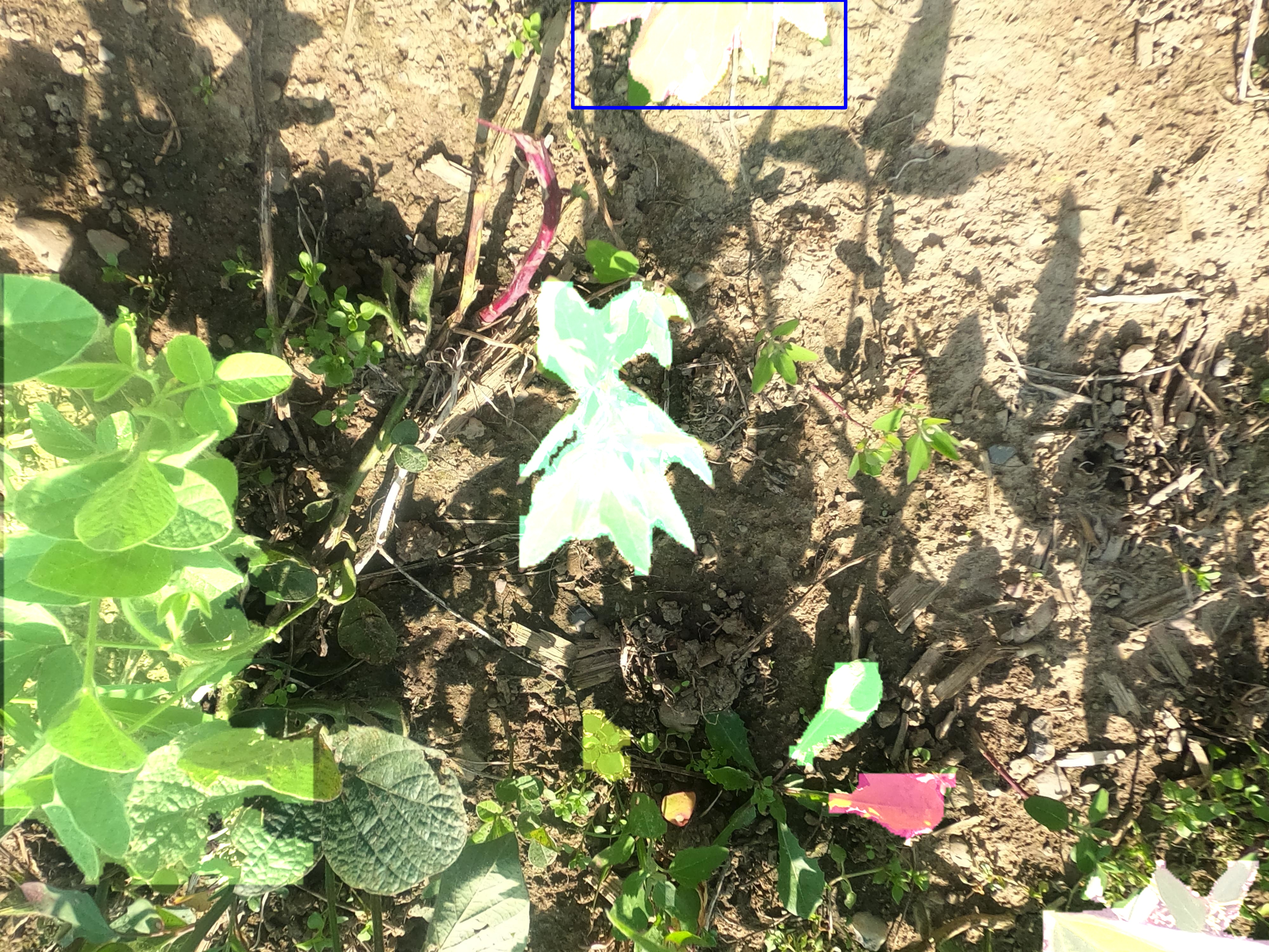
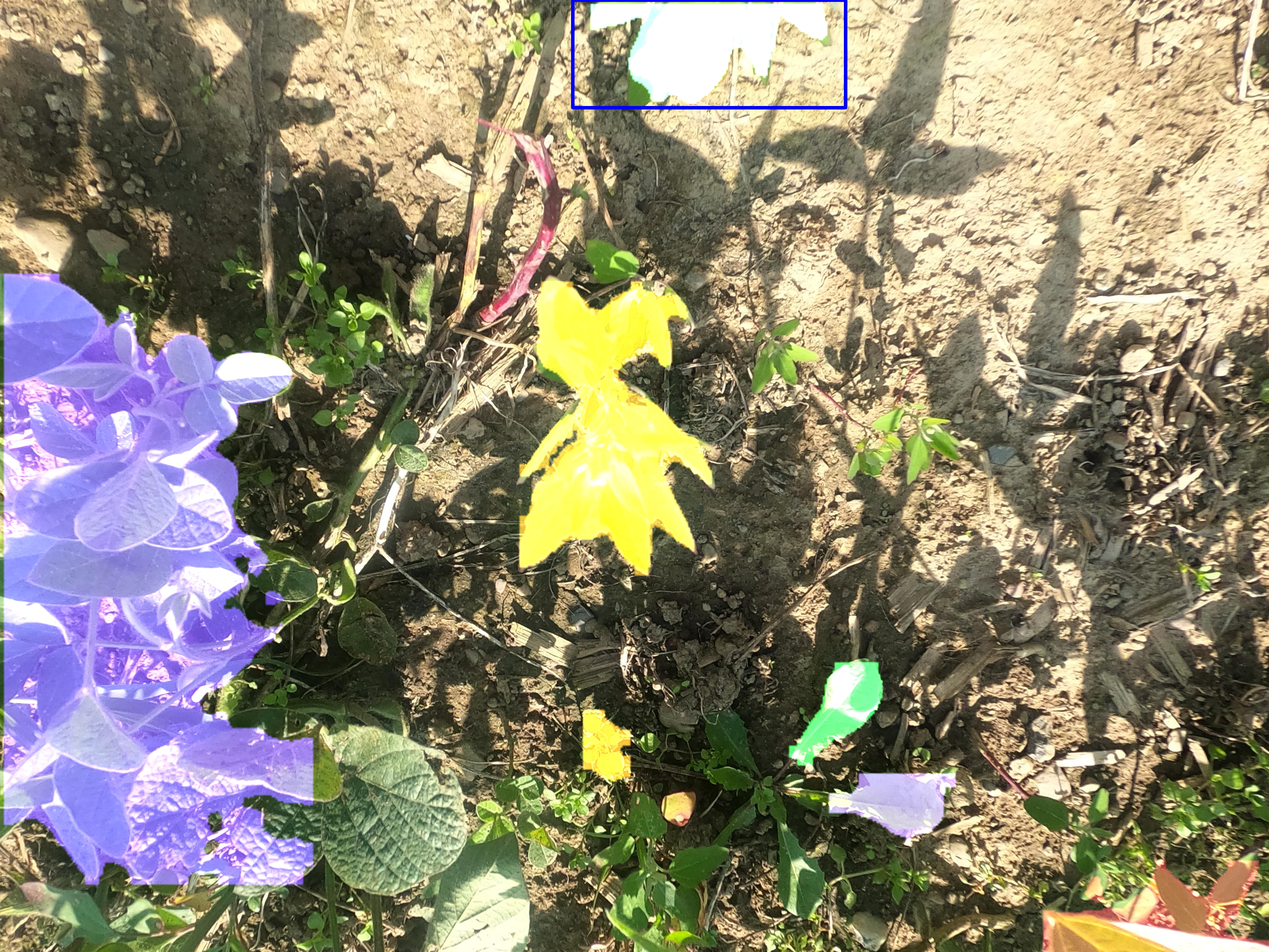
Update README.md

diff --git a/client-gui/src/app/_store/data.tsx b/client-gui/src/app/_store/data.tsx
@@ -3,12 +3,13 @@ import { create } from "zustand";
 
 
 
-// We do not need this; this is for local storage; 
-interface ImageData {
-    regions: number[][][];        
-    boxes: number[][][];          
-    classification: string;
-}
+// // We do not need this; this is for local storage; 
+// interface ImageData {
+//     regions: number[][][];        
+//     boxes: number[][][];          
+//     classification: string;
+// }
+
 
 interface DataStore {
     // imgMap: Map<string, ImageData>; //path to data; 

diff --git a/README.md b/README.md
@@ -68,4 +68,5 @@ Built with TypeScript + Next.js.
 
 ## Server & Database
 
-Built with Fastapi + SQLModel + PostgreDB. 
+Built with Fastapi + SQLModel + PostgreDB.
+Powerful Component functionalities provided by shadcn-ui 
